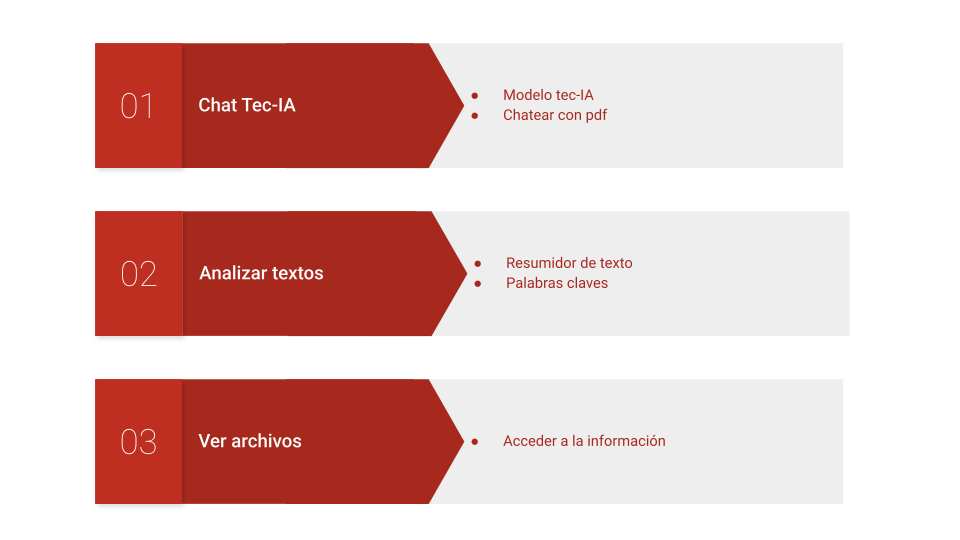
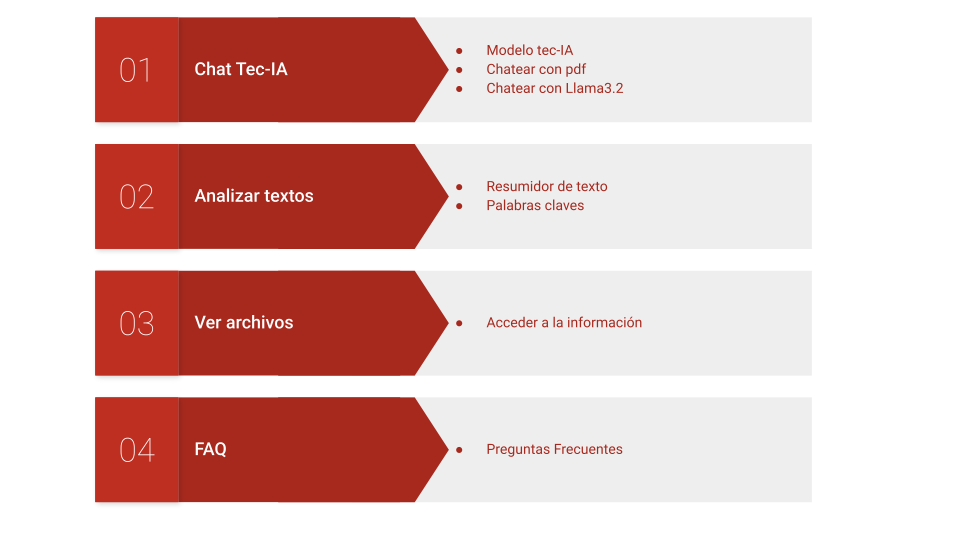
#15 Update documetation and image with the new information about Tec-IA

diff --git a/asistente-tec-ia/app/templates/info_tec_ia.html b/asistente-tec-ia/app/templates/info_tec_ia.html
@@ -70,15 +70,21 @@
                     </div>
                 </div>
                 <div class="accordion-item">
-                    <button class="accordion-header">Cómo funciona el chat con documentos PDF</button>
+                    <button class="accordion-header">Cómo funciona el chat con documentos PDF o TXT</button>
                     <div class="accordion-content">
-                        <p>Al chatear con un PDF, Tec-IA procesa el documento para crear una base de conocimiento. Luego, cuando haces una pregunta, el sistema busca la información más relevante dentro del texto para darte una respuesta coherente y precisa, citando las fuentes si es necesario.</p>
+                        <p>Al chatear con un PDF o un archivo de texto TXT, Tec-IA procesa el documento para crear una base de conocimiento. Luego, cuando haces una pregunta, el sistema busca la información más relevante dentro del texto para darte una respuesta coherente y precisa, citando las fuentes si es necesario.</p>
                     </div>
                 </div>
                 <div class="accordion-item">
                     <button class="accordion-header">Análisis de texto</button>
                     <div class="accordion-content">
                         <p>Desde estudiantes que necesitan resumir textos académicos y extraer datos de informes, Tec-IA es una herramienta versátil.<br>Utiliza el modelo facebook/bart-large-cnn para realizar los resúmenes, para extraer las palabras claves o keywords se usa el modelo de  Keybert </p>
+                    </div>
+                </div>
+                <div class="accordion-item">
+                    <button class="accordion-header">FAQ - Preguntas Frecuentes</button>
+                    <div class="accordion-content">
+                        <p>Para una respuesta rápida a preguntas comunes de los estudiantes se elaboró un archivo con preguntas y respuestas frecuentes.<br>Ante una pregunta del usuario el programa primero buscará la pregunta antes de enviar la "query" al modelo de IA </p>
                     </div>
                 </div>
                 <div class="accordion-item">
@@ -90,7 +96,8 @@
                 <div class="accordion-item">
                     <button class="accordion-header">Explora el código fuente y contribuye en nuestro GitHub</button>
                     <div class="accordion-content">
-                        <p>Somos un proyecto de código abierto y nos encantaría contar con tu ayuda. Puedes encontrar nuestro repositorio en GitHub, donde puedes reportar errores, sugerir nuevas funcionalidades o incluso contribuir con tu propio código.</p>
+                        <p>Somos un proyecto de código abierto y nos encantaría contar con tu ayuda. Puedes encontrar nuestro repositorio en GitHub, donde puedes reportar errores, sugerir nuevas funcionalidades o incluso contribuir con tu propio código.</p><br>
+                        <pre><code>git@github.com:parivgabriela/Proyecto_Integrador.git</pre></code>
                     </div>
                 </div>
             </div>
